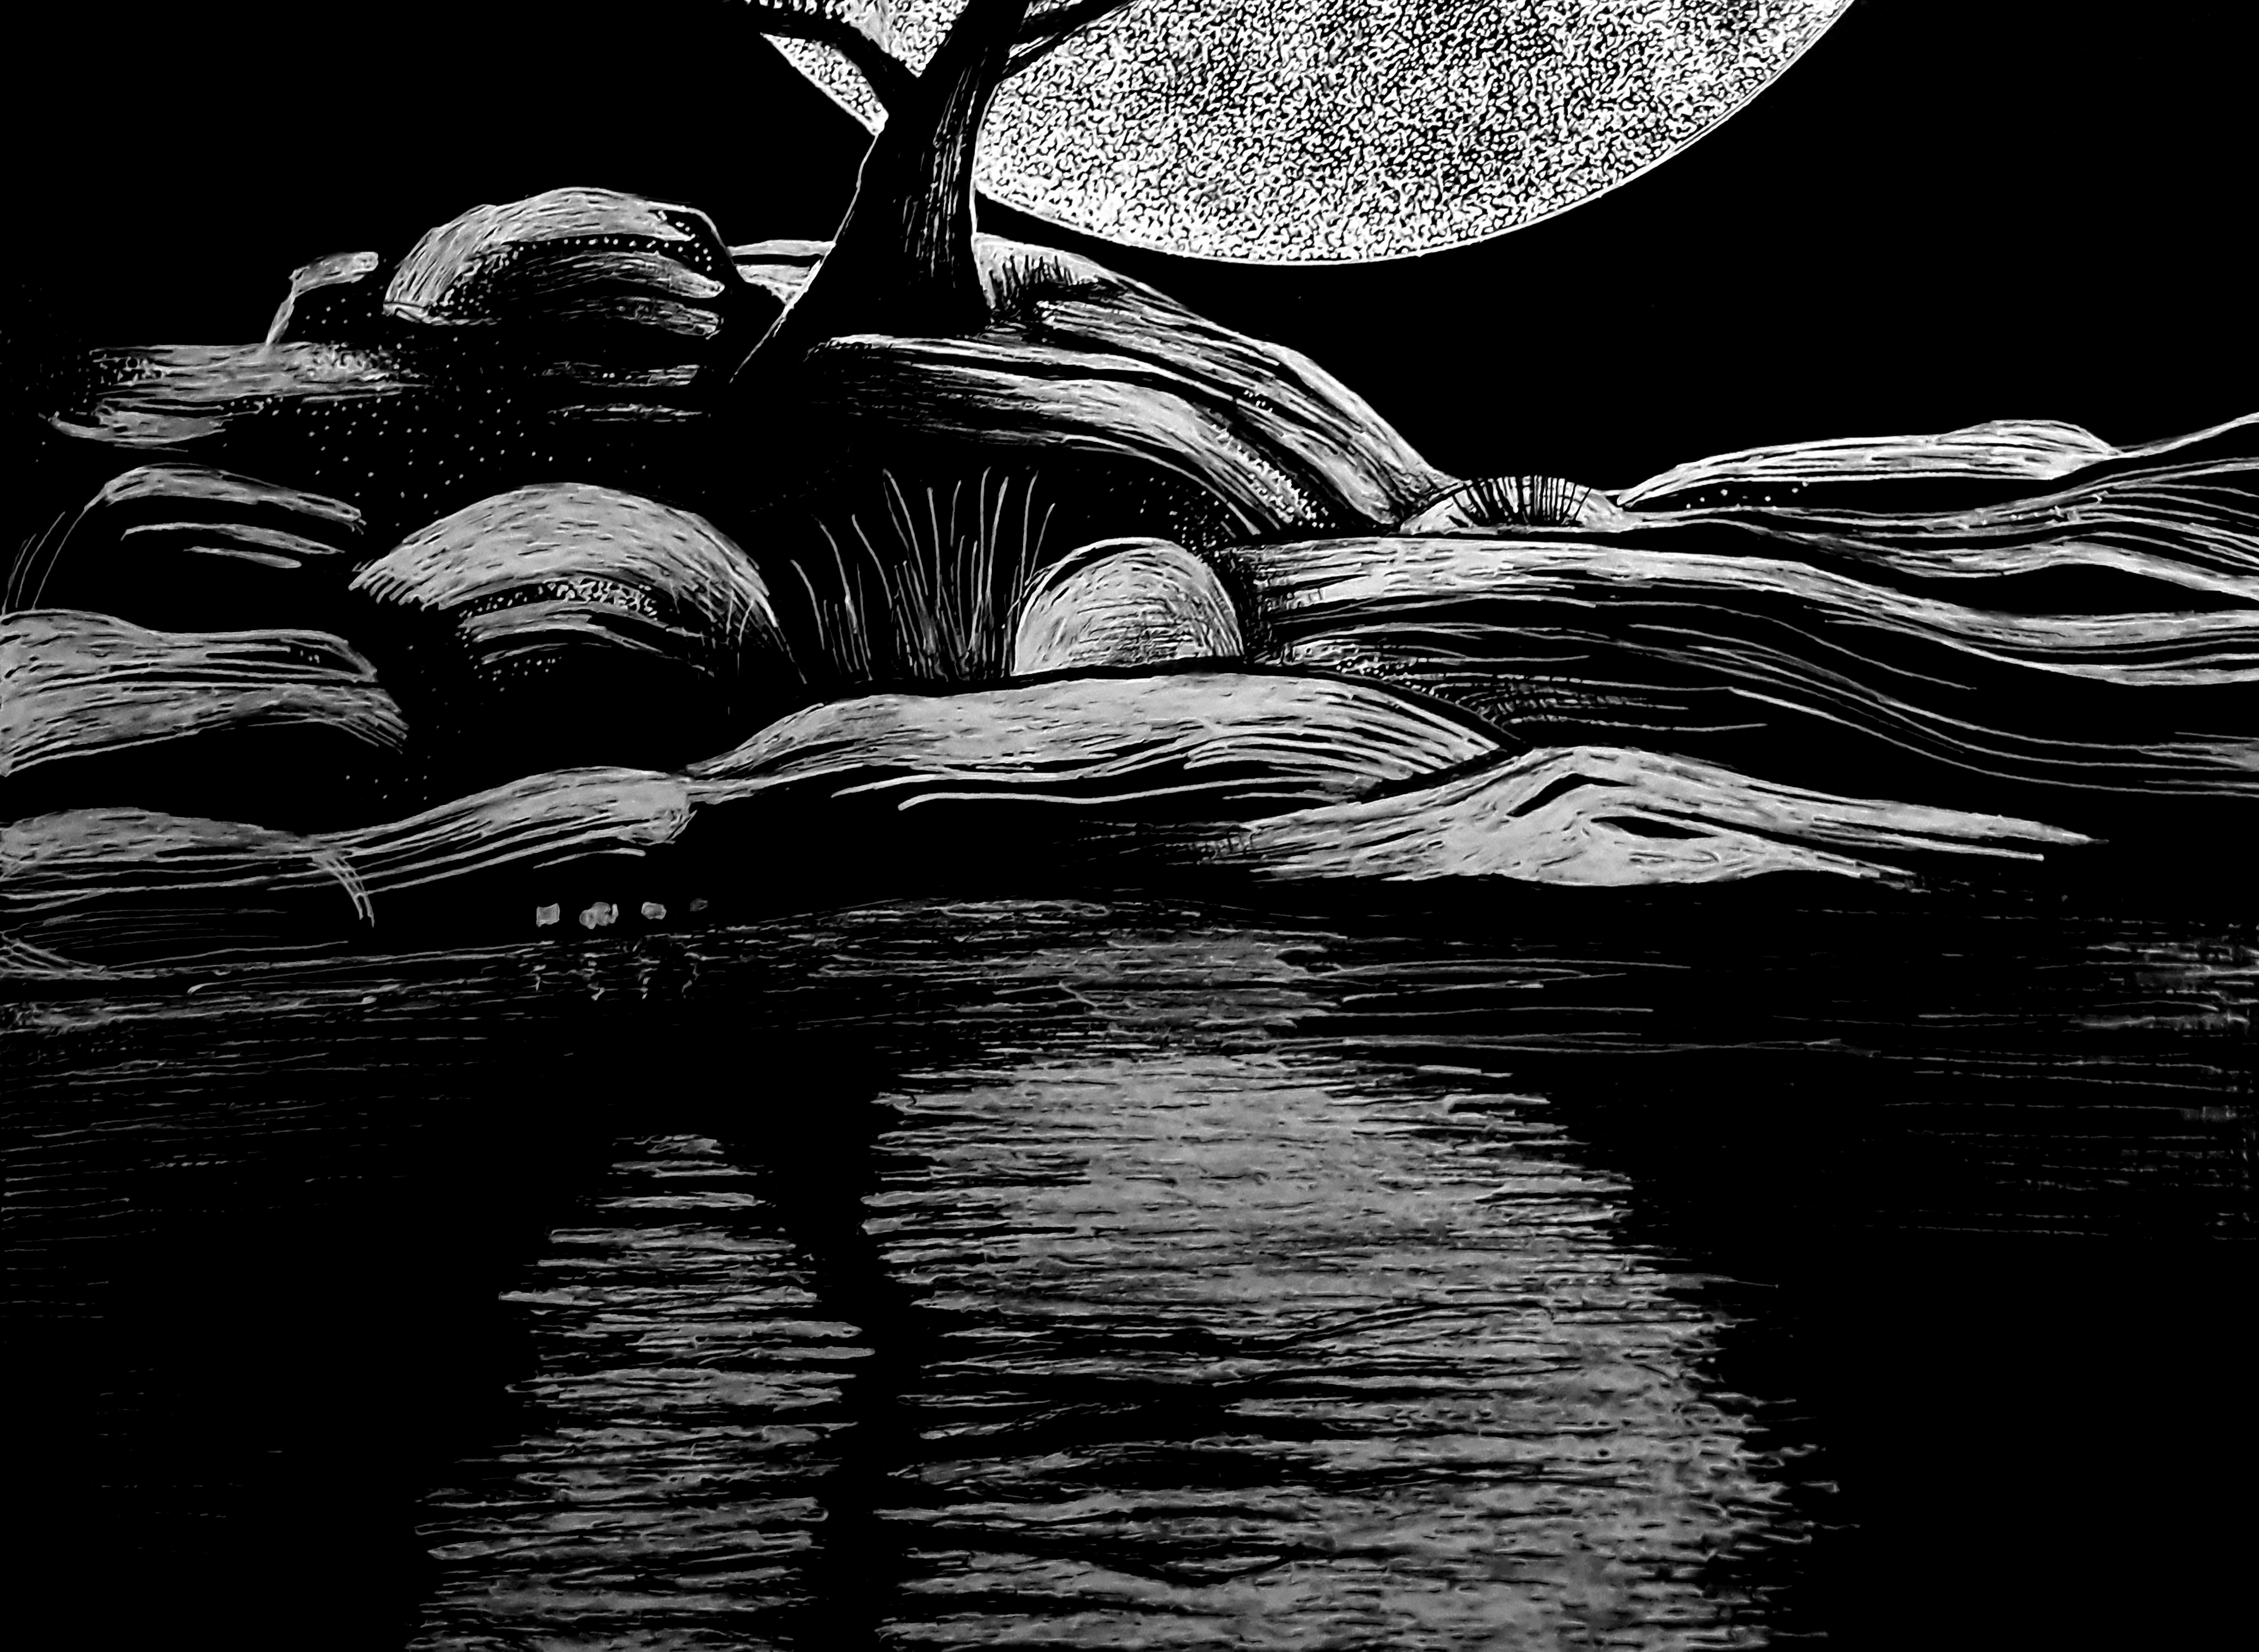
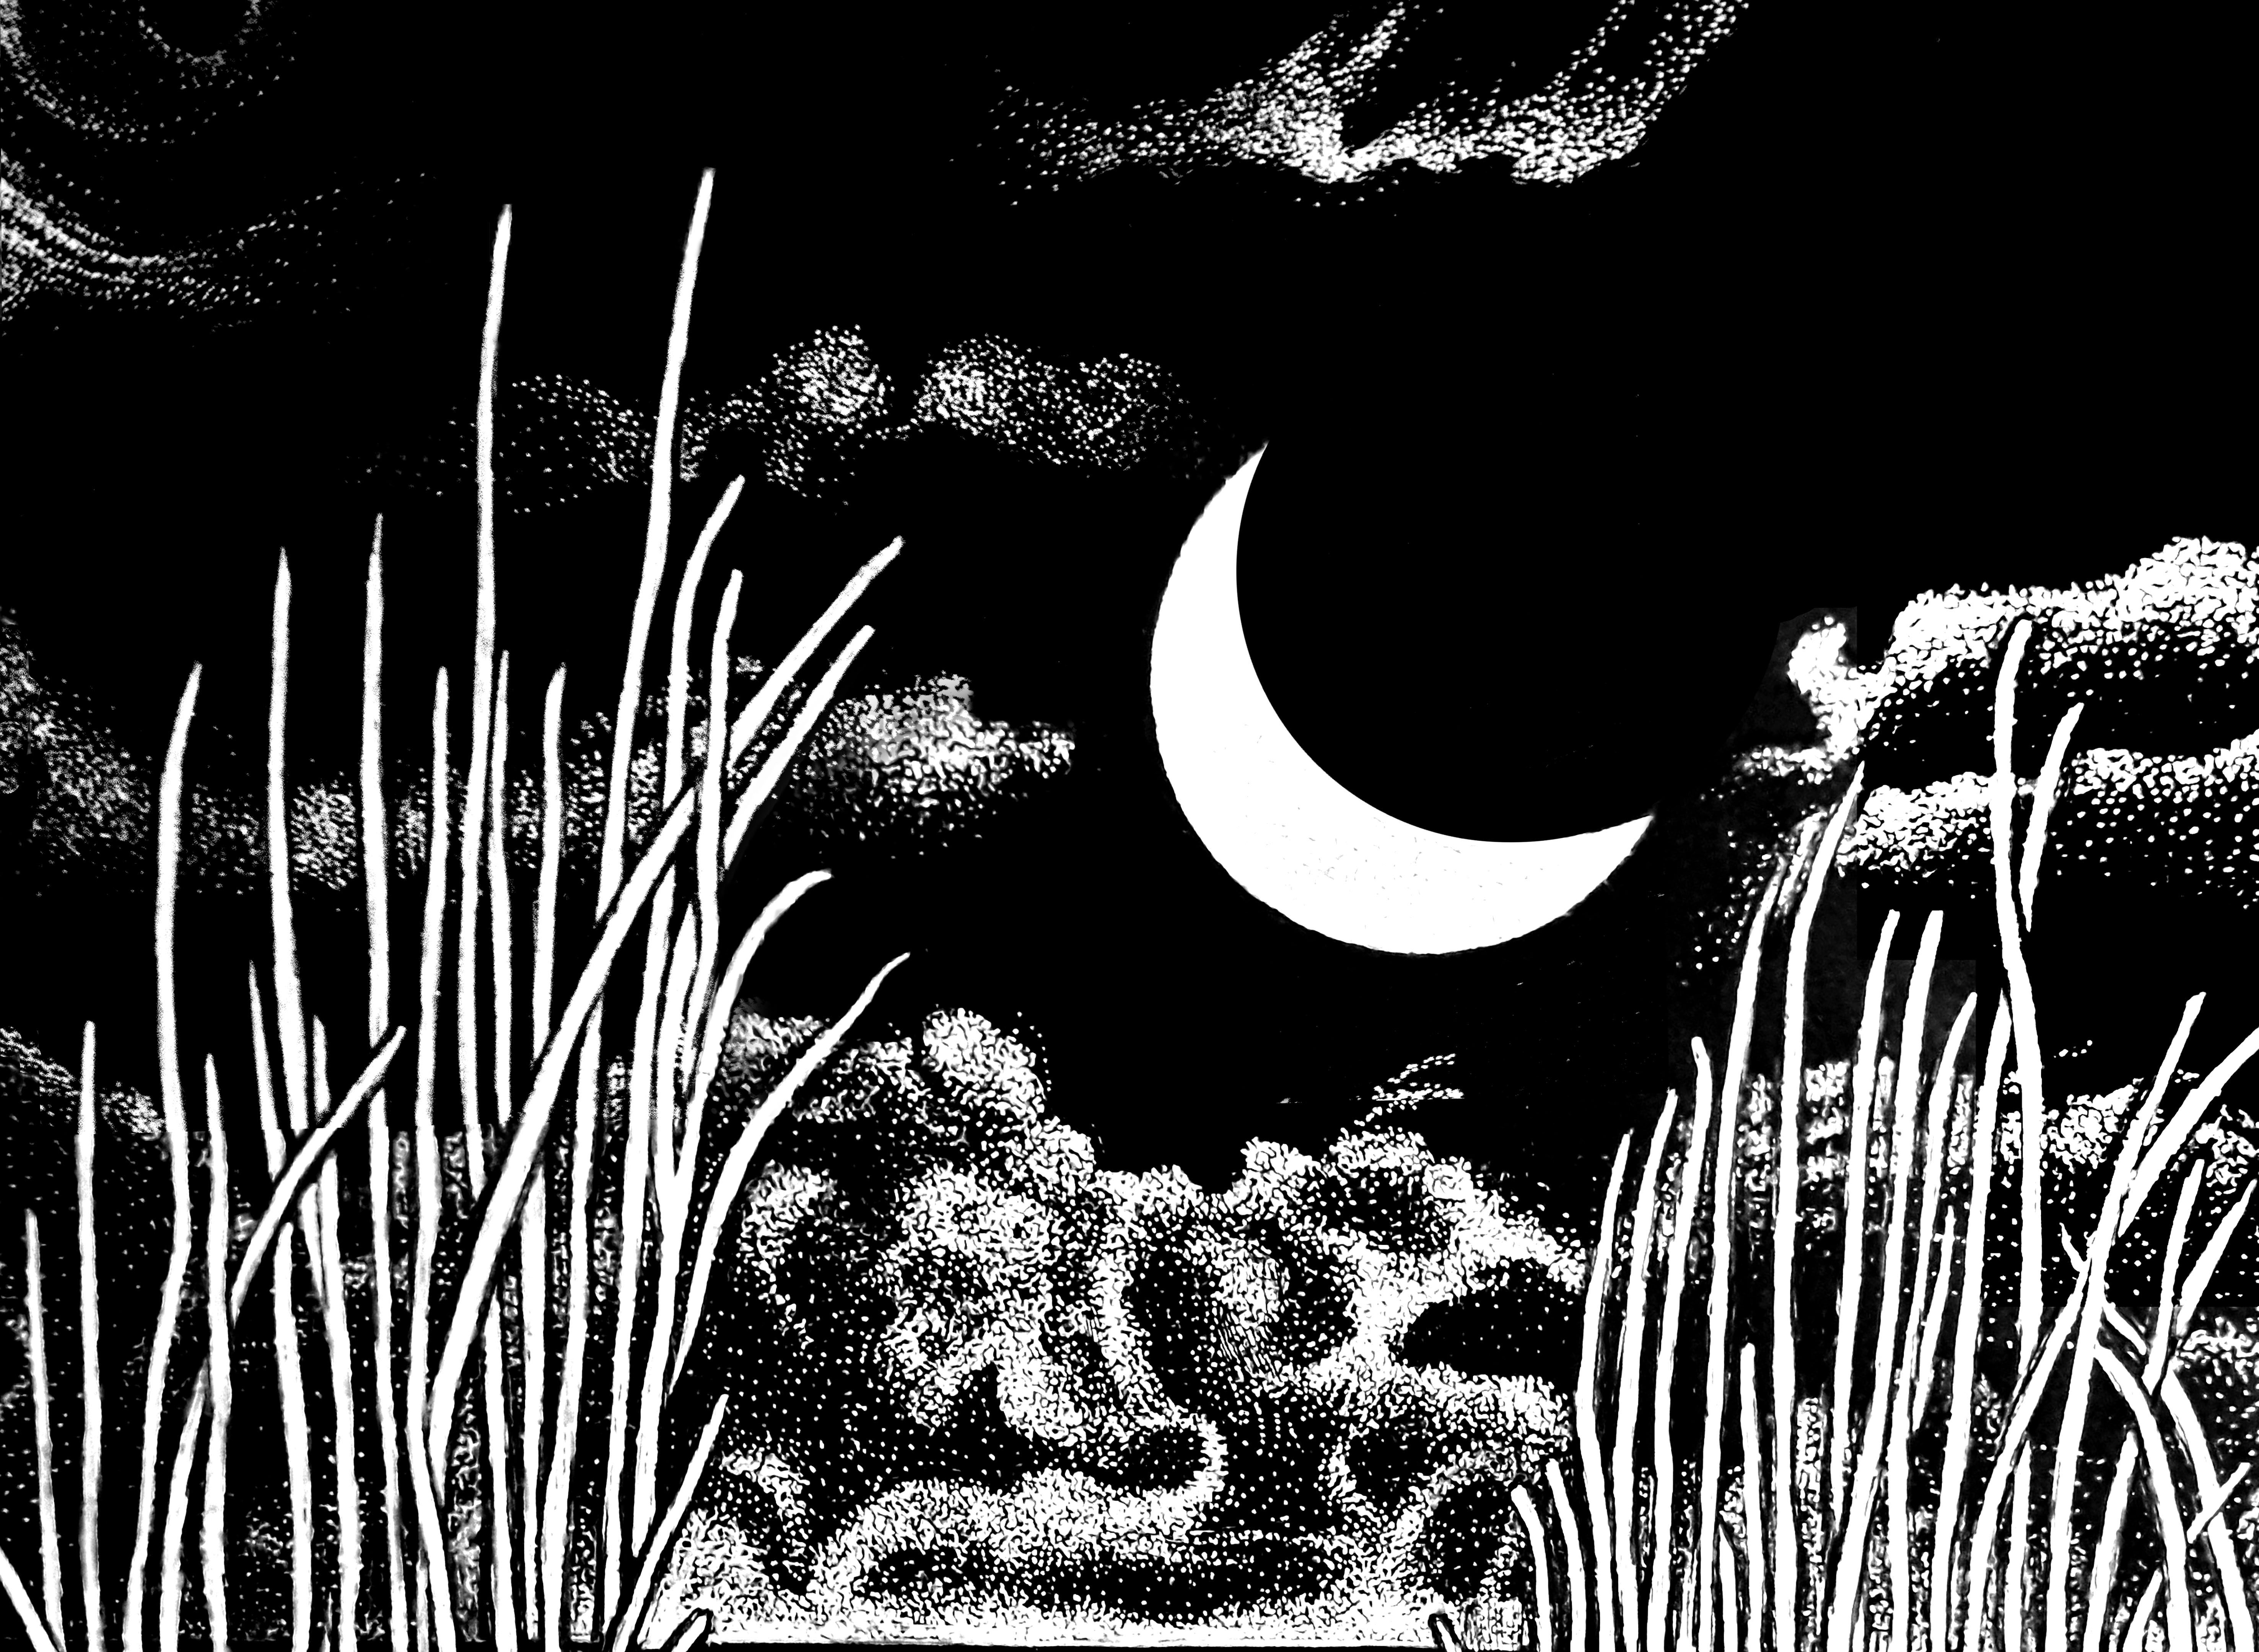
Add files via upload

diff --git a/index.html b/index.html
@@ -750,8 +750,8 @@
                                   <img class="card-img-top" src="imagens/novidade1.jpg" class="img-responsive" alt="Card image cap" > 
                             </a>       
                             <div class="card-body" style="padding-left:0" style=" width: 92%;">
-                                   <p class="card-text">28 maio - 12 junho 2026</p> 
-                                   <h5 class="card-title"><a href=""><b>Exposição Ver alEM</b><br><div class=""style="color:dimgray">Lisboa </div></a></h5>
+                                   <p class="card-text">6 junho - 13 setembro 2026</p> 
+                                   <h5 class="card-title"><a href=""><b>Exposição Coca de Monção’ 26</b><br><div class=""style="color:dimgray">Viana do Castelo - Museu Monção & Memórias</div></a></h5>
                             </div>
                         </div>
                     </div>
@@ -764,8 +764,8 @@
                                    <img class="card-img-top" src="imagens/novidade2.jpg" class="img-responsive" alt="Card image cap">
                             </a>     
                             <div class="card-body" style="padding-left:0">
-                                 <p class="card-text">23 maio - 24 maio 2026</p>
-                                 <h5 class="card-title"><a href=""><b>AMBULANTE' 26</b><br><div class=""style="color:dimgray">Loures</div></a></h5>
+                                 <p class="card-text">28 maio - 12 junho 2026</p>
+                                 <h5 class="card-title"><a href=""><b class="margin-top:15px;">Exposição Ver alEM</b><br><div class=""style="color:dimgray ">Lisboa - Palácio de São Bento</div></a></h5>
                             </div>
                         </div>
                     </div>
@@ -779,7 +779,7 @@
                             </a>     
                             <div class="card-body" style="padding-left:0">
                                <p class="card-text">2 mai - 25 jul 2026</p> 
-                               <h5 class="card-title"><a href=""><b>ARTIS' 26</b><br><div class=""style="color:dimgray">Seia</div></a></h5>
+                               <h5 class="card-title"><a href=""><b>ARTIS' 26</b><br><div class=""style="color:dimgray">Seia - Associação de Arte e Imagem de Seia</div></a></h5>
                             </div>
                         </div>
                     </div>
@@ -790,7 +790,7 @@
       </section>
    <br>   
    <br>    
-   <br>  
+
       
       
   